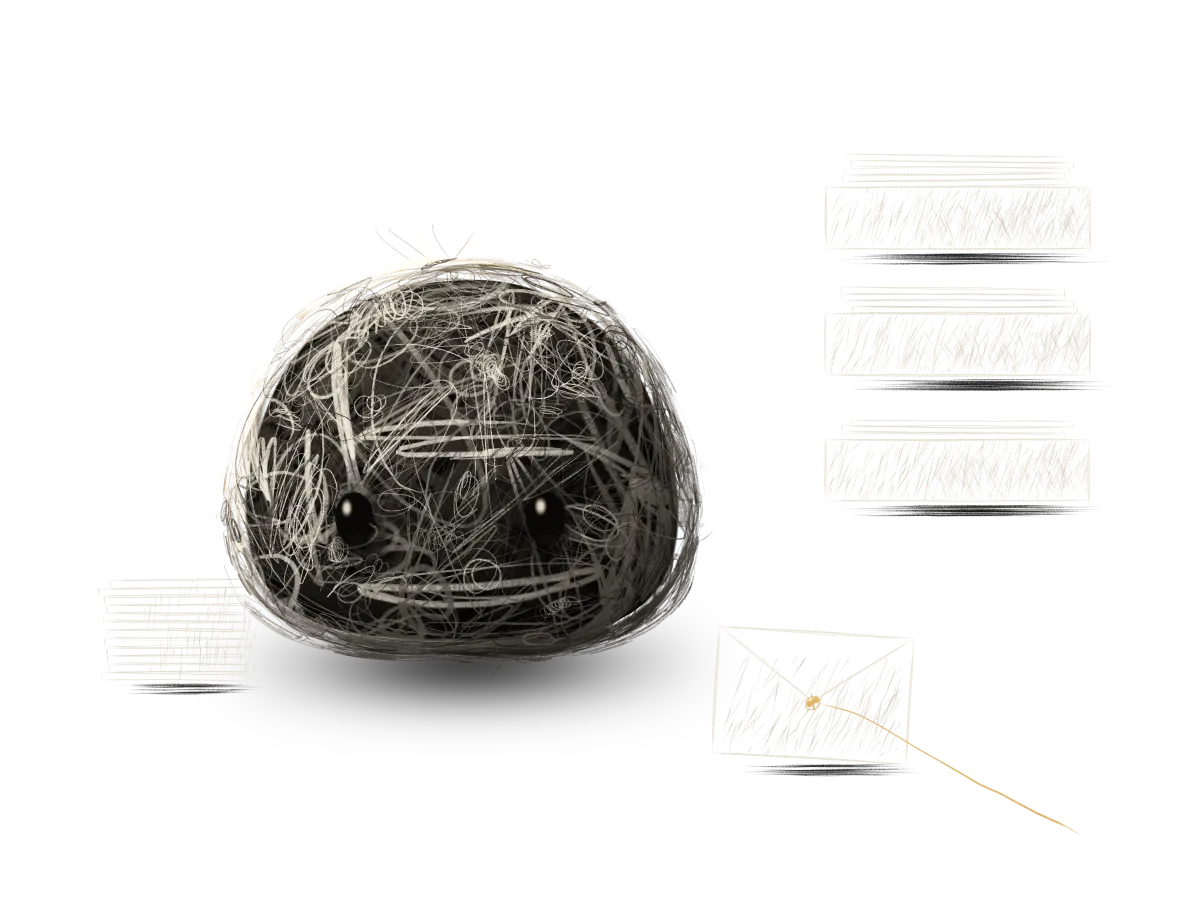
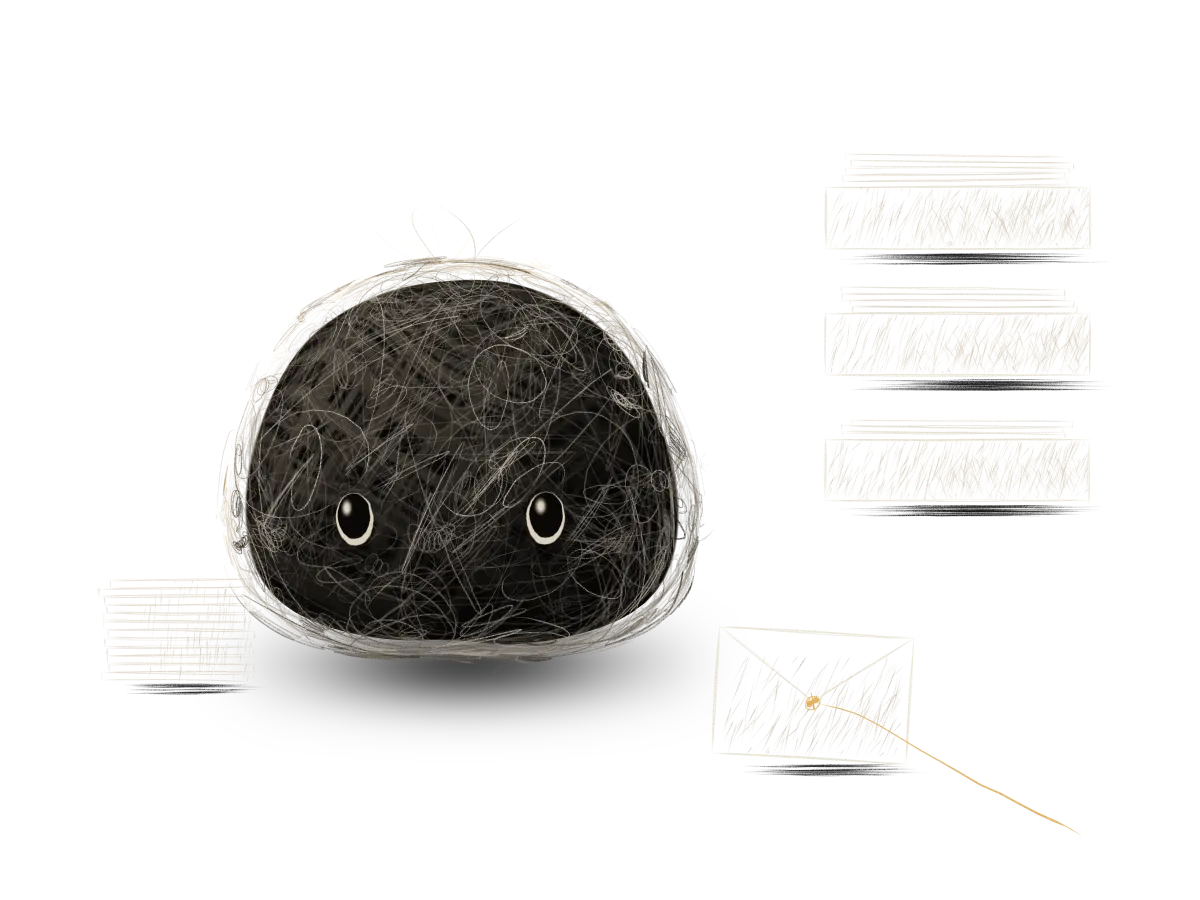
Dark ground: even lines, readable eyes, the same friendly face
In dark the wide bright strokes become fine even lines and the values mirror the
light drawing, the eyes get a soft pale crescent with a large pupil, and the mini
blobs follow. In both themes a blink squashes the oval with no corner, and the
voice image's digit row starts and ends on whole numbers.

Changed region(s): [[0.185, 0.28, 0.5858, 0.7467]]

diff --git a/blob-render.js b/blob-render.js
@@ -125,6 +125,8 @@ const STRAND_VERT = /* glsl */`
     float farness = smoothstep(1.0, 3.0, lod0);
     // pencil shading: where the light falls the line is finer
     wpx *= mix(1.0, mix(1.22, 0.74, key), farness * uBody);
+    // on the dark ground a wide stroke would glare: from a distance every line is a fine pencil line
+    if (uPaper < 0.5 && uBody > 0.5) wpx *= mix(1.0, min(1.0, 0.0075 / max(width, 1e-4)), farness);
 
     float coc = max(min(uAperture * abs(z - uFocus) / z * uViewport.y, uMaxCoc), clearK * 11.0 * uViewport.y / 900.0);
     float w2 = max(wpx, uMinPx);
@@ -158,17 +160,16 @@ const STRAND_VERT = /* glsl */`
       // lines pile up where the form turns away: thin them, or the edge reads as a nest
       a *= mix(0.42, 1.0, smoothstep(0.02, 0.5, ndv));
       if (uPaper < 0.5) {
-        // light pencil on a dark ground
-        float shade = mix(0.16, 1.5, key) * mix(0.85, 1.0, depth);
+        // light pencil on a dark ground, even in tone, so no one stroke reads as a feature of the face
         float massL = smoothstep(0.99, 0.975, shell);
-        float v = (tone + massL * 0.3) * shade * mix(1.0, 0.9 + 0.5 * key, massL) + 0.015;
-        v += face * uFaceLift * mix(0.5, 1.0, key) * (0.4 + 0.6 * depth);
-        v *= 1.0 - contact * 0.5;
+        float shade = mix(0.8, 1.06, key) * mix(0.9, 1.0, depth);
+        // the same drawing as on the light ground, value for value: its darkest lines are the lightest here
+        float v = (tone > 0.72 ? 0.24 : mix(0.88, 0.5, clamp(tone / 0.72, 0.0, 1.0))) * shade;
         col = ramp(clamp(v, 0.0, 1.0));
         col += vec3(0.80, 0.56, 0.24) * pow(rim, 1.8) * (0.04 + 0.34 * smoothstep(0.3, 0.8, key)) * depth;
-        a *= mix(0.82, 1.0, depth);
-        // the wide light strokes step back near the eyes, so the eyes keep the ground around them
-        a *= mix(1.0, 0.4, massL * (1.0 - smoothstep(1.0, 2.4, ringE)));
+        a *= mix(0.9, 1.0, depth) * mix(1.0, 0.34, massL);
+        // lines thin out over the calm patch around each eye
+        a *= mix(0.3, 1.0, smoothstep(1.0, 2.0, ringE));
       } else {
         // graphite on paper: dark value is the pencil, light strokes are a white pencil on top
         float lit = smoothstep(0.42, 0.98, key);
@@ -259,7 +260,7 @@ const CORE_VERT = /* glsl */`
 
 const CORE_FRAG = /* glsl */`
   precision highp float;
-  uniform float uPaper, uCoreBlur, uBlink, uCoreAlpha; uniform vec3 uKey; uniform vec3 uGround; uniform vec4 uEyeL, uEyeR; uniform vec2 uEyeZ;
+  uniform float uPaper, uCoreBlur, uBlink, uCoreAlpha, uEyePatch; uniform vec3 uKey; uniform vec3 uGround; uniform vec4 uEyeL, uEyeR; uniform vec2 uEyeZ;
   in vec3 vN; in vec3 vP; in vec3 vO;
   out vec4 fragColor;
   float h(vec3 p){ p = fract(p * 0.3183099 + vec3(0.1, 0.2, 0.3)); p *= 17.0; return fract(p.x * p.y * p.z * (p.x + p.y + p.z)); }
@@ -293,7 +294,10 @@ const CORE_FRAG = /* glsl */`
       a = smoothstep(0.0, 0.3, ndv);
     }
     float dE = min(length((vO - vec3(uEyeL.xy, uEyeZ.x)) / uEyeL.zwz), length((vO - vec3(uEyeR.xy, uEyeZ.y)) / uEyeR.zwz));
-    col *= 1.0 - (1.0 - smoothstep(0.85, 1.3, dE)) * smoothstep(0.1, 0.45, vO.z) * (uPaper > 0.5 ? 0.22 : 0.5) * (1.0 - uBlink);
+    float nearE = (1.0 - smoothstep(0.85, 1.3, dE)) * smoothstep(0.1, 0.45, vO.z);
+    if (uPaper > 0.5) col *= 1.0 - nearE * 0.22 * (1.0 - uBlink);
+    // on the dark ground: a calm, lighter, matte patch, so the dark oval reads at any size
+    else col = mix(col, vec3(0.2, 0.182, 0.155), uEyePatch * (1.0 - smoothstep(1.0, 1.9, dE)) * smoothstep(0.1, 0.45, vO.z));
     a *= uCoreAlpha;
     fragColor = vec4(col * a, a);
   }`;
@@ -323,7 +327,7 @@ const EYE_VERT = /* glsl */`
 // and ends as a low arc, so no frame of a blink has a corner in it.
 const EYE_FRAG = /* glsl */`
   precision highp float;
-  uniform float uBlink, uPaper; uniform vec2 uLook;
+  uniform float uBlink, uPaper, uRing; uniform vec2 uLook;
   ${NOISE_GLSL}
   in vec3 vL;
   out vec4 fragColor;
@@ -334,15 +338,13 @@ const EYE_FRAG = /* glsl */`
     float wob = vnoise(vec2(ang * 3.1 + 7.0, 1.3)) * 0.05 + vnoise(vec2(ang * 11.0, 4.2)) * 0.022;
     float edgeAA = fwidth(length(l)) * 1.3;
     float edge = 1.0 - smoothstep(0.955 - wob - edgeAA, 0.955 - wob + edgeAA, length(l));
+    // closing, the top of the oval comes down to its own lower arc: the shape squashes, no corner in any frame
     float b = uBlink;
     float arcK = smoothstep(0.72, 1.0, b);
-    float top = mix(1.3, -0.4, b) + mix(-0.62, 0.46, arcK) * l.x * l.x;
-    float thick = mix(2.6, 0.17 * (1.0 - 0.72 * l.x * l.x), arcK * arcK * arcK);
-    float bot = top - thick;
+    float sq = 0.955 * sqrt(max(1.0 - l.x * l.x / (0.955 * 0.955), 0.0));
+    float top = sq * mix(1.08, -0.78, b);
     float aa = fwidth(l.y) * 1.4;
-    float lid = (1.0 - smoothstep(top - aa, top + aa, l.y)) * smoothstep(bot - aa, bot + aa, l.y);
-    float wide = mix(1.0, 1.0 - smoothstep(0.96, 1.04, abs(l.x)), b);
-    float vis = mix(edge, wide, smoothstep(0.75, 1.0, b)) * lid;
+    float vis = edge * (1.0 - smoothstep(top - aa, top + aa, l.y));
     if (vis < 0.01) discard;
     vec3 col = vec3(0.026, 0.021, 0.017);
     col += vec3(0.082, 0.062, 0.040) * smoothstep(0.35, 1.0, -l.y + 0.12 * l.x) * smoothstep(1.05, 0.55, length(l));
@@ -351,8 +353,13 @@ const EYE_FRAG = /* glsl */`
     col += vec3(0.98, 0.93, 0.83) * (1.0 - smoothstep(0.22, 1.0, d1)) * 0.86;
     float g = vnoise(vec2(l.x * 22.0 + l.y * 9.0, l.y * 34.0 - l.x * 6.0)) * 0.6 + vnoise(l * 60.0) * 0.4;
     col += vec3(0.024, 0.021, 0.018) * g * (uPaper > 0.5 ? 1.5 : 0.6);
-    // in dark ground the closed lid is a light stroke, since a dark one would vanish
-    if (uPaper < 0.5) col = mix(col, vec3(0.8, 0.77, 0.7), arcK);
+    if (uPaper < 0.5) {
+      // a pale edge, so a dark oval carries on a dark ground at any size; closed, the stroke is pale too
+      // the pupil sits high and fills most of it, so the pale shows as a soft crescent below, not a stare
+      float rr = length(l - vec2(0.0, uRing * 0.92)) / (0.955 - wob);
+      float pale = smoothstep(1.0 - uRing - 0.05, 1.0 - uRing + 0.01, rr) * step(0.001, uRing);
+      col = mix(col, vec3(0.86, 0.82, 0.74), max(pale, arcK));
+    }
     fragColor = vec4(col * vis, vis);
   }`;
 
@@ -431,20 +438,23 @@ export function makeShared(atlas, theme = 'light') {
     uViewport: { value: new THREE.Vector2(1, 1) }, uTime: { value: 0 }, uFocus: { value: 6 }, uAperture: { value: 0 }, uMaxCoc: { value: 22 },
     uMinPx: { value: 1.05 }, uFarGain: { value: 3.6 }, uCoreBlur: { value: 0 },
     uKey: { value: new THREE.Vector3(-0.48, 0.62, 0.62).normalize() },
-    uPaper: { value: 1 }, uGround: { value: new THREE.Color() }, uFaceLift: { value: 0.28 },
+    uPaper: { value: 1 }, uGround: { value: new THREE.Color() }, uFaceLift: { value: 0.28 }, uEyeRing: { value: 0 }, uEyePatch: { value: 1 },
   };
   setTheme(shared, theme);
   return shared;
 }
+export const EYE_RING_DARK = 0.12;
 export function setTheme(shared, name) {
   const t = THEMES[name] || THEMES.light;
   shared.uPaper.value = t.paper;
   shared.uGround.value.setStyle(t.ground, THREE.LinearSRGBColorSpace);
   shared.uFaceLift.value = t.paper ? 0.28 : 0.16;
+  shared.uEyeRing.value = t.paper ? 0 : EYE_RING_DARK;
+  shared.uEyePatch.value = 0;
 }
 
 export function strandMaterial(shared, { body = 0, breath = { value: 0 } } = {}) {
-  const { uCoreBlur, uGround, ...forStrands } = shared;
+  const { uCoreBlur, uGround, uEyeRing, uEyePatch, ...forStrands } = shared;
   return new THREE.RawShaderMaterial({
     glslVersion: THREE.GLSL3, vertexShader: STRAND_VERT, fragmentShader: STRAND_FRAG,
     transparent: true, depthWrite: false, depthTest: true, side: THREE.DoubleSide,
@@ -536,7 +546,7 @@ export class Creature {
     this.coreMat = new THREE.RawShaderMaterial({
       glslVersion: THREE.GLSL3, vertexShader: CORE_VERT, fragmentShader: CORE_FRAG, transparent: false,
       blending: THREE.CustomBlending, blendSrc: THREE.OneFactor, blendDst: THREE.OneMinusSrcAlphaFactor,
-      uniforms: { uBreath: this.breath, uKey: shared.uKey, uPaper: shared.uPaper, uGround: shared.uGround, uCoreBlur: shared.uCoreBlur, uEyeL: U.uEyeL, uEyeR: U.uEyeR, uEyeZ: U.uEyeZ, uBlink: U.uBlink, uCoreAlpha: { value: 1 } },
+      uniforms: { uBreath: this.breath, uKey: shared.uKey, uPaper: shared.uPaper, uGround: shared.uGround, uCoreBlur: shared.uCoreBlur, uEyeL: U.uEyeL, uEyeR: U.uEyeR, uEyeZ: U.uEyeZ, uBlink: U.uBlink, uCoreAlpha: { value: 1 }, uEyePatch: shared.uEyePatch },
     });
     this.core = new THREE.Mesh(SHARED_CORE(), this.coreMat);
     this.core.frustumCulled = false; this.core.renderOrder = order - 2;
@@ -547,7 +557,7 @@ export class Creature {
       const mat = new THREE.RawShaderMaterial({
         glslVersion: THREE.GLSL3, vertexShader: EYE_VERT, fragmentShader: EYE_FRAG,
         blending: THREE.CustomBlending, blendSrc: THREE.OneFactor, blendDst: THREE.OneMinusSrcAlphaFactor, transparent: false,
-        uniforms: { uBlink: { value: 0 }, uLook: { value: new THREE.Vector2() }, uPaper: shared.uPaper },
+        uniforms: { uBlink: { value: 0 }, uLook: { value: new THREE.Vector2() }, uPaper: shared.uPaper, uRing: shared.uEyeRing },
       });
       this.eyeMats.push(mat);
       const m = new THREE.Mesh(DOME, mat);
